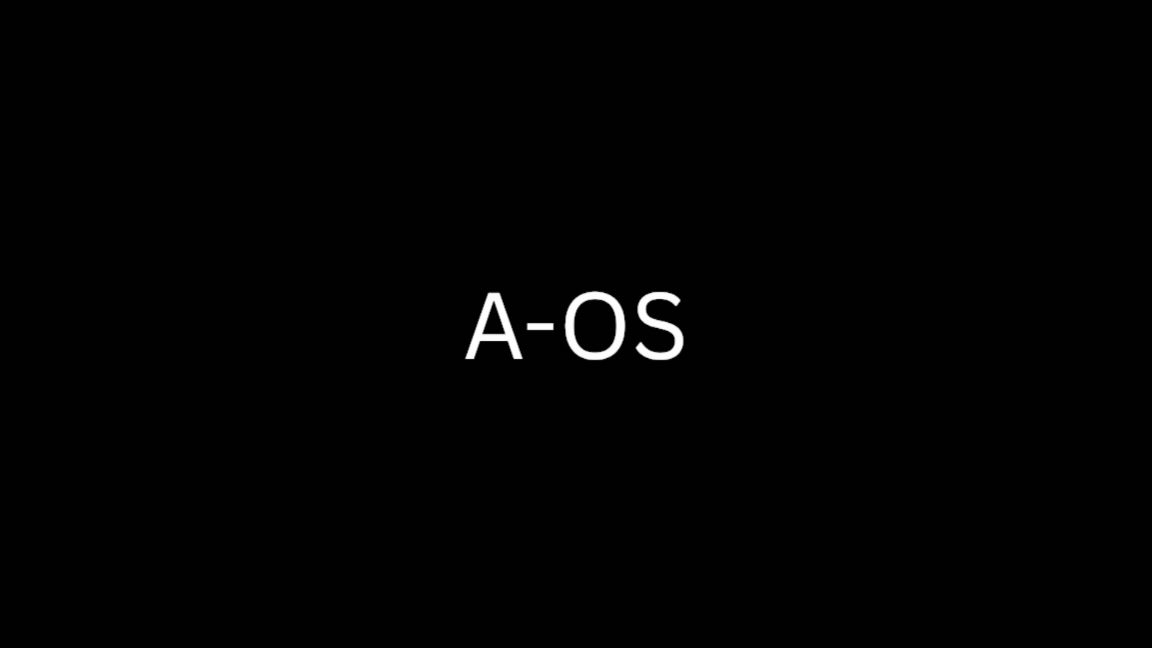
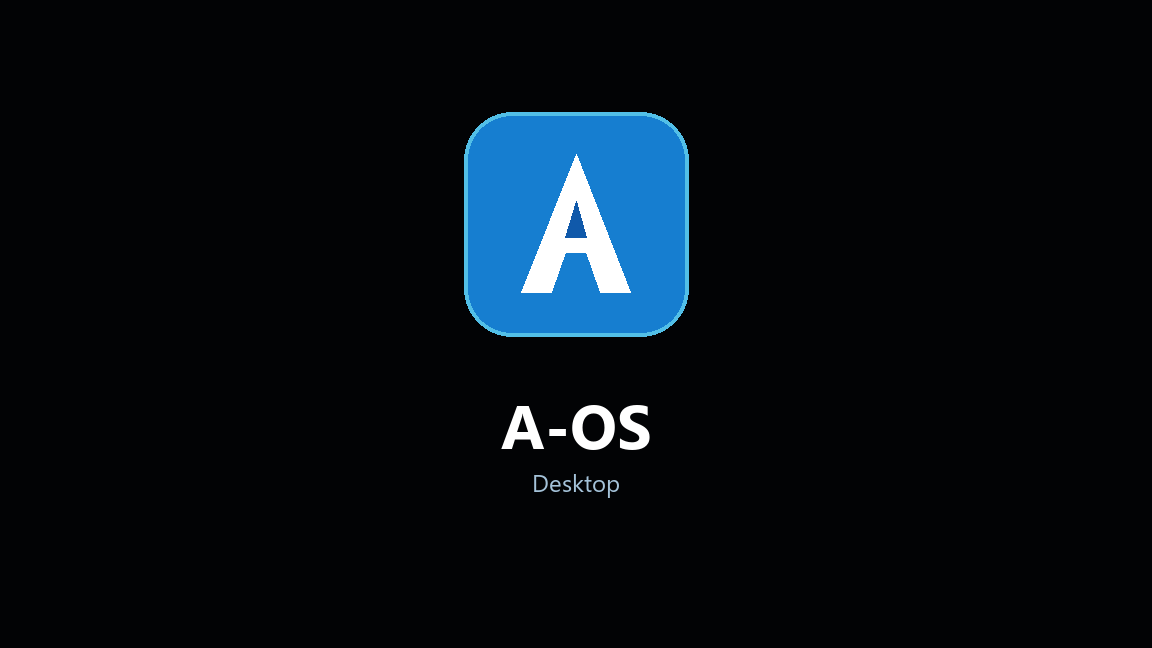
Improve ISO installation and networking

Changed region(s): [[0.375, 0.1543, 0.625, 0.5556], [0.4375, 0.6173, 0.5625, 0.7099], [0.4688, 0.7407, 0.5312, 0.7716]]

diff --git a/public/aos-installation-wizard.js b/public/aos-installation-wizard.js
@@ -103,7 +103,7 @@
   }
 
   function renderStorage() {
-    var main = mainShell("Where to install A\u2011OS", "Choose the live session, install beside Windows in unallocated space, or dedicate an entire drive to A-OS.");
+    var main = mainShell("Where to install A\u2011OS", "Choose the Windows local disk (C:) option to keep Windows and install persistent A-OS in unallocated space, or choose a different empty drive.");
     var list = element("div", "aos-installer__targets");
     list.setAttribute("role", "radiogroup");
     targets.forEach(function (item) { list.appendChild(targetButton(item)); });
@@ -115,7 +115,8 @@
   function renderNetwork() {
     var state = window.AOS_NATIVE_BRIDGE.state || {};
     var network = state.wifi && state.wifi.network;
-    var main = mainShell("Connect this device", network && network !== "Offline" ? "Connected to " + network + ". You can continue or choose another network." : "Connect now, or continue and connect later from Device controls.");
+    var online = state.connectivity && state.connectivity.online;
+    var main = mainShell("Connect this device", online ? "Internet connection is working" + (network && network !== "Offline" ? " through " + network : "") + "." : network && network !== "Offline" ? "Connected to " + network + ", but Internet access has not been confirmed yet." : "Connect now, or continue and connect later from Device controls.");
     var card = element("div", "aos-installer__targets");
     var button = element("button", "aos-installer__target");
     button.type = "button";
@@ -200,7 +201,7 @@
     var isLive = target && target.id === "live";
     var isAlongside = target && target.mode === "alongside";
     var lead = isLive ? "A-OS will run from the installation media. Changes are not guaranteed to survive a restart." : isAlongside ? "A-OS will use only the selected Windows unallocated space and create persistent storage for accounts, settings, apps, and files." : "A-OS will copy the bootable system and create persistent storage for accounts, settings, apps, and files.";
-    var main = mainShell(isLive ? "Start A-OS without installing" : isAlongside ? "Install beside Windows" : "Ready to install A\u2011OS", lead);
+    var main = mainShell(isLive ? "Start A-OS without installing" : isAlongside ? "Install A-OS on the Windows local disk" : "Ready to install A\u2011OS", lead);
     var summary = element("div", "aos-installer__targets");
     summary.appendChild(targetButton(target));
     main.appendChild(summary);

diff --git a/public/aos-live-native-runtime.js b/public/aos-live-native-runtime.js
@@ -187,7 +187,18 @@
       isInternet ? null : function () { loadDevices(body, isWifi); }
     ));
     if (isInternet) {
-      body.appendChild(element("p", "aos-native-empty", enabled ? "Internet access is enabled for Ethernet, Wi-Fi, A-OS apps, and embedded websites." : "Internet access is off. Local A-OS files and settings still work."));
+      var connectivity = state.connectivity || {};
+      body.appendChild(element("p", "aos-native-empty", enabled ? (connectivity.message || "Internet access is enabled for Ethernet, Wi-Fi, A-OS apps, and embedded websites.") : "Internet access is off. Local A-OS files and settings still work."));
+      if (enabled) {
+        var check = element("button", "primary", "Check connection");
+        check.type = "button";
+        check.addEventListener("click", function () {
+          check.disabled = true;
+          check.textContent = "Checking";
+          window.aosNetworkBridge.check().then(renderPanel).catch(nativeError);
+        });
+        body.appendChild(check);
+      }
     } else {
       loadDevices(body, isWifi);
     }
@@ -310,7 +321,7 @@
       var detail = button.querySelector("small");
       if (!label || !detail) return;
       if (label.textContent.trim() === "Wi-Fi" && state.wifi) {
-        detail.textContent = state.wifi.enabled ? (state.wifi.network || "Available") : "Off";
+        detail.textContent = state.wifi.enabled ? (state.connectivity && state.connectivity.checked && !state.connectivity.online ? "No Internet" : (state.wifi.network || "Available")) : "Off";
         button.classList.toggle("on", Boolean(state.wifi.enabled));
       }
       if (label.textContent.trim() === "Bluetooth" && state.bluetooth) {

diff --git a/public/index.html b/public/index.html
@@ -20,7 +20,7 @@
     <script src="./aos-nearby-share.js?v=20261017-managed12"></script>
     <script src="./aos-session-persistence.js?v=20261019-persist2"></script>
     <script src="./aos-device-status.js?v=20261018-native3"></script>
-    <script src="./aos-native-bridge.js?v=20261019-persist1"></script>
+    <script src="./aos-native-bridge.js?v=20261020-network1"></script>
     <script type="module" crossorigin src="./aos-desktop-loader.js?v=20261019-installer1"></script>
     <script src="./aos-live-iso-ready.js?v=20261017-classic1" defer></script>
     <link rel="stylesheet" crossorigin href="./assets/index-CEFUMHuR.css">
@@ -33,8 +33,8 @@
     <script src="./aos-managed10-runtime.js?v=20261019-home1" defer></script>
     <script src="./assets/emojis/aos-complete/catalog-data.js?v=20261017-managed12" defer></script>
     <script src="./aos-complete-emoji-pack.js?v=20261017-managed12" defer></script>
-    <script src="./aos-installation-wizard.js?v=20261019-installtarget1" defer></script>
-    <script src="./aos-live-native-runtime.js?v=20261019-native4" defer></script>
+    <script src="./aos-installation-wizard.js?v=20261020-network1" defer></script>
+    <script src="./aos-live-native-runtime.js?v=20261020-network1" defer></script>
     <script src="./vendor/html2canvas.min.js" defer></script>
     <script src="https://a-ai.web.app/askembed-bridge.js" defer></script>
     <script src="./aos-tv-screen.js" defer></script>

diff --git a/public/aos-native-bridge.js b/public/aos-native-bridge.js
@@ -151,6 +151,9 @@
     },
     toggleInternet: function (enabled) {
       return post("/__aos/networking/toggle", {enabled: Boolean(enabled)}).then(refreshSystem);
+    },
+    check: function () {
+      return request("/__aos/network/check").then(refreshSystem);
     }
   };
 

diff --git a/iso/config/includes.chroot/usr/local/lib/aos/server.py b/iso/config/includes.chroot/usr/local/lib/aos/server.py
@@ -10,6 +10,7 @@ import math
 import os
 import re
 import shutil
+import socket
 import subprocess
 import tarfile
 import tempfile
@@ -29,6 +30,8 @@ COMMAND_TIMEOUT = 12
 VERSION_CACHE_SECONDS = 30
 VERSION_CACHE = {"at": 0.0, "value": None}
 VERSION_LOCK = Lock()
+NETWORK_HEALTH_CACHE = {"at": 0.0, "value": None}
+NETWORK_HEALTH_LOCK = Lock()
 UPDATE_LOCK = Lock()
 INSTALL_LOCK = Lock()
 UPDATE_STATE = {"running": False, "stage": "idle", "progress": 0, "message": "", "error": ""}
@@ -149,6 +152,47 @@ def networking_enabled():
     return code == 0 and output.strip().lower() == "enabled"
 
 
+def invalidate_network_health():
+    with NETWORK_HEALTH_LOCK:
+        NETWORK_HEALTH_CACHE["at"] = 0.0
+        NETWORK_HEALTH_CACHE["value"] = None
+
+
+def network_health(force=False):
+    now = time.monotonic()
+    with NETWORK_HEALTH_LOCK:
+        cached = NETWORK_HEALTH_CACHE.get("value")
+        if not force and cached is not None and now - NETWORK_HEALTH_CACHE["at"] < 15:
+            return dict(cached)
+
+    result = {
+        "online": False,
+        "dns": False,
+        "checked": True,
+        "message": "Internet access is off",
+    }
+    if networking_enabled():
+        result["message"] = "Connected to a network, checking Internet access"
+        try:
+            socket.getaddrinfo("a-os-desktop.web.app", 443, type=socket.SOCK_STREAM)
+            result["dns"] = True
+        except OSError:
+            result["message"] = "Connected, but DNS is not responding"
+        if result["dns"]:
+            try:
+                request = Request(REMOTE_VERSION_URL, method="HEAD", headers={"User-Agent": "A-OS/1.2.1"})
+                with urlopen(request, timeout=5) as response:
+                    result["online"] = 200 <= int(response.status) < 500
+                result["message"] = "Internet connection is working" if result["online"] else "The Internet check was rejected"
+            except Exception:
+                result["message"] = "Connected, but the Internet is not responding"
+
+    with NETWORK_HEALTH_LOCK:
+        NETWORK_HEALTH_CACHE["at"] = time.monotonic()
+        NETWORK_HEALTH_CACHE["value"] = dict(result)
+    return result
+
+
 def current_network():
     if not networking_enabled():
         return "Internet off"
@@ -200,6 +244,7 @@ def system_state():
         "native": True,
         "persistent": persistent_storage_active(),
         "networking": {"enabled": networking_enabled()},
+        "connectivity": network_health(),
         "battery": battery_state(),
         "wifi": {"enabled": wifi_enabled(), "network": current_network()},
         "bluetooth": {"enabled": bluetooth_enabled()},
@@ -323,8 +368,8 @@ def alongside_targets(devices, source):
             targets.append({
                 "id": target_id,
                 "mode": "alongside",
-                "name": "Install alongside Windows",
-                "description": "Uses only unallocated space on {} | Windows detected{}".format(
+                "name": "Windows local disk (C:) - install A-OS beside Windows",
+                "description": "Uses only unallocated space on {} | Windows local disk detected{}".format(
                     path, " | " + blocked_reason if blocked_reason else "",
                 ),
                 "size": region["size"],
@@ -900,6 +945,7 @@ class AosHandler(SimpleHTTPRequestHandler):
             routes = {
                 "/__aos/system": system_state,
                 "/__aos/storage": storage_targets,
+                "/__aos/network/check": lambda: network_health(force=True),
                 "/__aos/wifi/scan": wifi_scan,
                 "/__aos/bluetooth/scan": bluetooth_scan,
             }
@@ -942,6 +988,7 @@ class AosHandler(SimpleHTTPRequestHandler):
         if route == "/__aos/networking/toggle":
             enabled = bool(body.get("enabled"))
             code, _, error = run(["nmcli", "networking", "on" if enabled else "off"])
+            invalidate_network_health()
             self._json(200 if code == 0 else 500, {"ok": code == 0, "enabled": enabled, "error": error})
             return
         if route == "/__aos/wifi/toggle":
@@ -949,6 +996,7 @@ class AosHandler(SimpleHTTPRequestHandler):
             if enabled and not networking_enabled():
                 run(["nmcli", "networking", "on"])
             code, _, error = run(["nmcli", "radio", "wifi", "on" if enabled else "off"])
+            invalidate_network_health()
             self._json(200 if code == 0 else 500, {"ok": code == 0, "enabled": enabled, "error": error})
             return
         if route == "/__aos/wifi/connect":
@@ -962,7 +1010,9 @@ class AosHandler(SimpleHTTPRequestHandler):
             if password:
                 command.extend(["password", password])
             code, output, error = run(command, timeout=35)
-            self._json(200 if code == 0 else 400, {"ok": code == 0, "message": output, "error": error})
+            invalidate_network_health()
+            health = network_health(force=True) if code == 0 else None
+            self._json(200 if code == 0 else 400, {"ok": code == 0, "message": output, "error": error, "connectivity": health})
             return
         if route == "/__aos/bluetooth/toggle":
             enabled = bool(body.get("enabled"))

diff --git a/scripts/generate-a-os-assets.py b/scripts/generate-a-os-assets.py
@@ -393,6 +393,32 @@ def save_boot_gif() -> None:
     frames[0].save(path, save_all=True, append_images=frames[1:], duration=60, disposal=2, optimize=True)
 
 
+def save_boot_splash() -> None:
+    width, height = 1152, 648
+    image = Image.new("RGB", (width, height), (2, 3, 5))
+    draw = ImageDraw.Draw(image, "RGBA")
+    tile = (width // 2 - 112, 112, width // 2 + 112, 336)
+    draw.rounded_rectangle(tile, radius=48, fill=(22, 126, 208, 255), outline=(102, 213, 239, 190), width=4)
+    logo(draw, (width // 2 - 68, 145, width // 2 + 68, 305), (255, 255, 255, 255))
+    title = "A-OS"
+    title_font = font(62, True)
+    title_box = draw.textbbox((0, 0), title, font=title_font)
+    draw.text(((width - (title_box[2] - title_box[0])) / 2, 382), title, font=title_font, fill=(255, 255, 255, 255))
+    subtitle = "Desktop"
+    subtitle_font = font(24, False)
+    subtitle_box = draw.textbbox((0, 0), subtitle, font=subtitle_font)
+    draw.text(((width - (subtitle_box[2] - subtitle_box[0])) / 2, 466), subtitle, font=subtitle_font, fill=(164, 194, 217, 255))
+
+    destinations = [
+        ICONS / "splash.png",
+        ROOT / "iso" / "config" / "includes.chroot" / "usr" / "share" / "plymouth" / "themes" / "aos" / "aos-boot.png",
+        ROOT / "iso" / "config" / "bootloaders" / "grub-pc" / "splash.png",
+    ]
+    for destination in destinations:
+        destination.parent.mkdir(parents=True, exist_ok=True)
+        image.save(destination, optimize=True)
+
+
 for icon_name in ICON_NAMES:
     save_icon(icon_name)
 
@@ -407,5 +433,6 @@ if legacy_sound.exists() and not (MEDIA / legacy_sound.name).exists():
     shutil.copy2(legacy_sound, MEDIA / legacy_sound.name)
 
 save_boot_gif()
+save_boot_splash()
 
 print(f"icons={len(list(ICONS.iterdir()))} backgrounds={len(list(BACKGROUNDS.iterdir()))} media={len(list(MEDIA.iterdir()))}")

diff --git a/iso/tests/test_installer.py b/iso/tests/test_installer.py
@@ -2,7 +2,7 @@ import importlib.util
 import os
 from pathlib import Path
 import unittest
-from unittest.mock import call, patch
+from unittest.mock import MagicMock, call, patch
 
 
 REPOSITORY = Path(__file__).resolve().parents[2]
@@ -16,6 +16,9 @@ os.chdir(ORIGINAL_DIRECTORY)
 
 
 class InstallerSafetyTests(unittest.TestCase):
+    def tearDown(self):
+        SERVER.invalidate_network_health()
+
     def test_parted_free_regions_are_aligned_inward(self):
         output = """BYT;
 /dev/nvme0n1:256060514304B:nvme:512:512:gpt:Example:;
@@ -90,6 +93,25 @@ Boot0007* A-OS
                 with self.assertRaisesRegex(RuntimeError, "boot order"):
                     SERVER.prioritize_aos_boot("0007")
         command.assert_not_called()
+
+    def test_network_health_reports_disabled_networking(self):
+        with patch.object(SERVER, "networking_enabled", return_value=False):
+            health = SERVER.network_health(force=True)
+        self.assertFalse(health["online"])
+        self.assertFalse(health["dns"])
+        self.assertEqual(health["message"], "Internet access is off")
+
+    def test_network_health_checks_dns_and_https(self):
+        response = MagicMock()
+        response.status = 200
+        response.__enter__.return_value = response
+        with patch.object(SERVER, "networking_enabled", return_value=True):
+            with patch.object(SERVER.socket, "getaddrinfo", return_value=[("", "", "", "", "")]):
+                with patch.object(SERVER, "urlopen", return_value=response):
+                    health = SERVER.network_health(force=True)
+        self.assertTrue(health["online"])
+        self.assertTrue(health["dns"])
+        self.assertEqual(health["message"], "Internet connection is working")
 
 
 if __name__ == "__main__":
